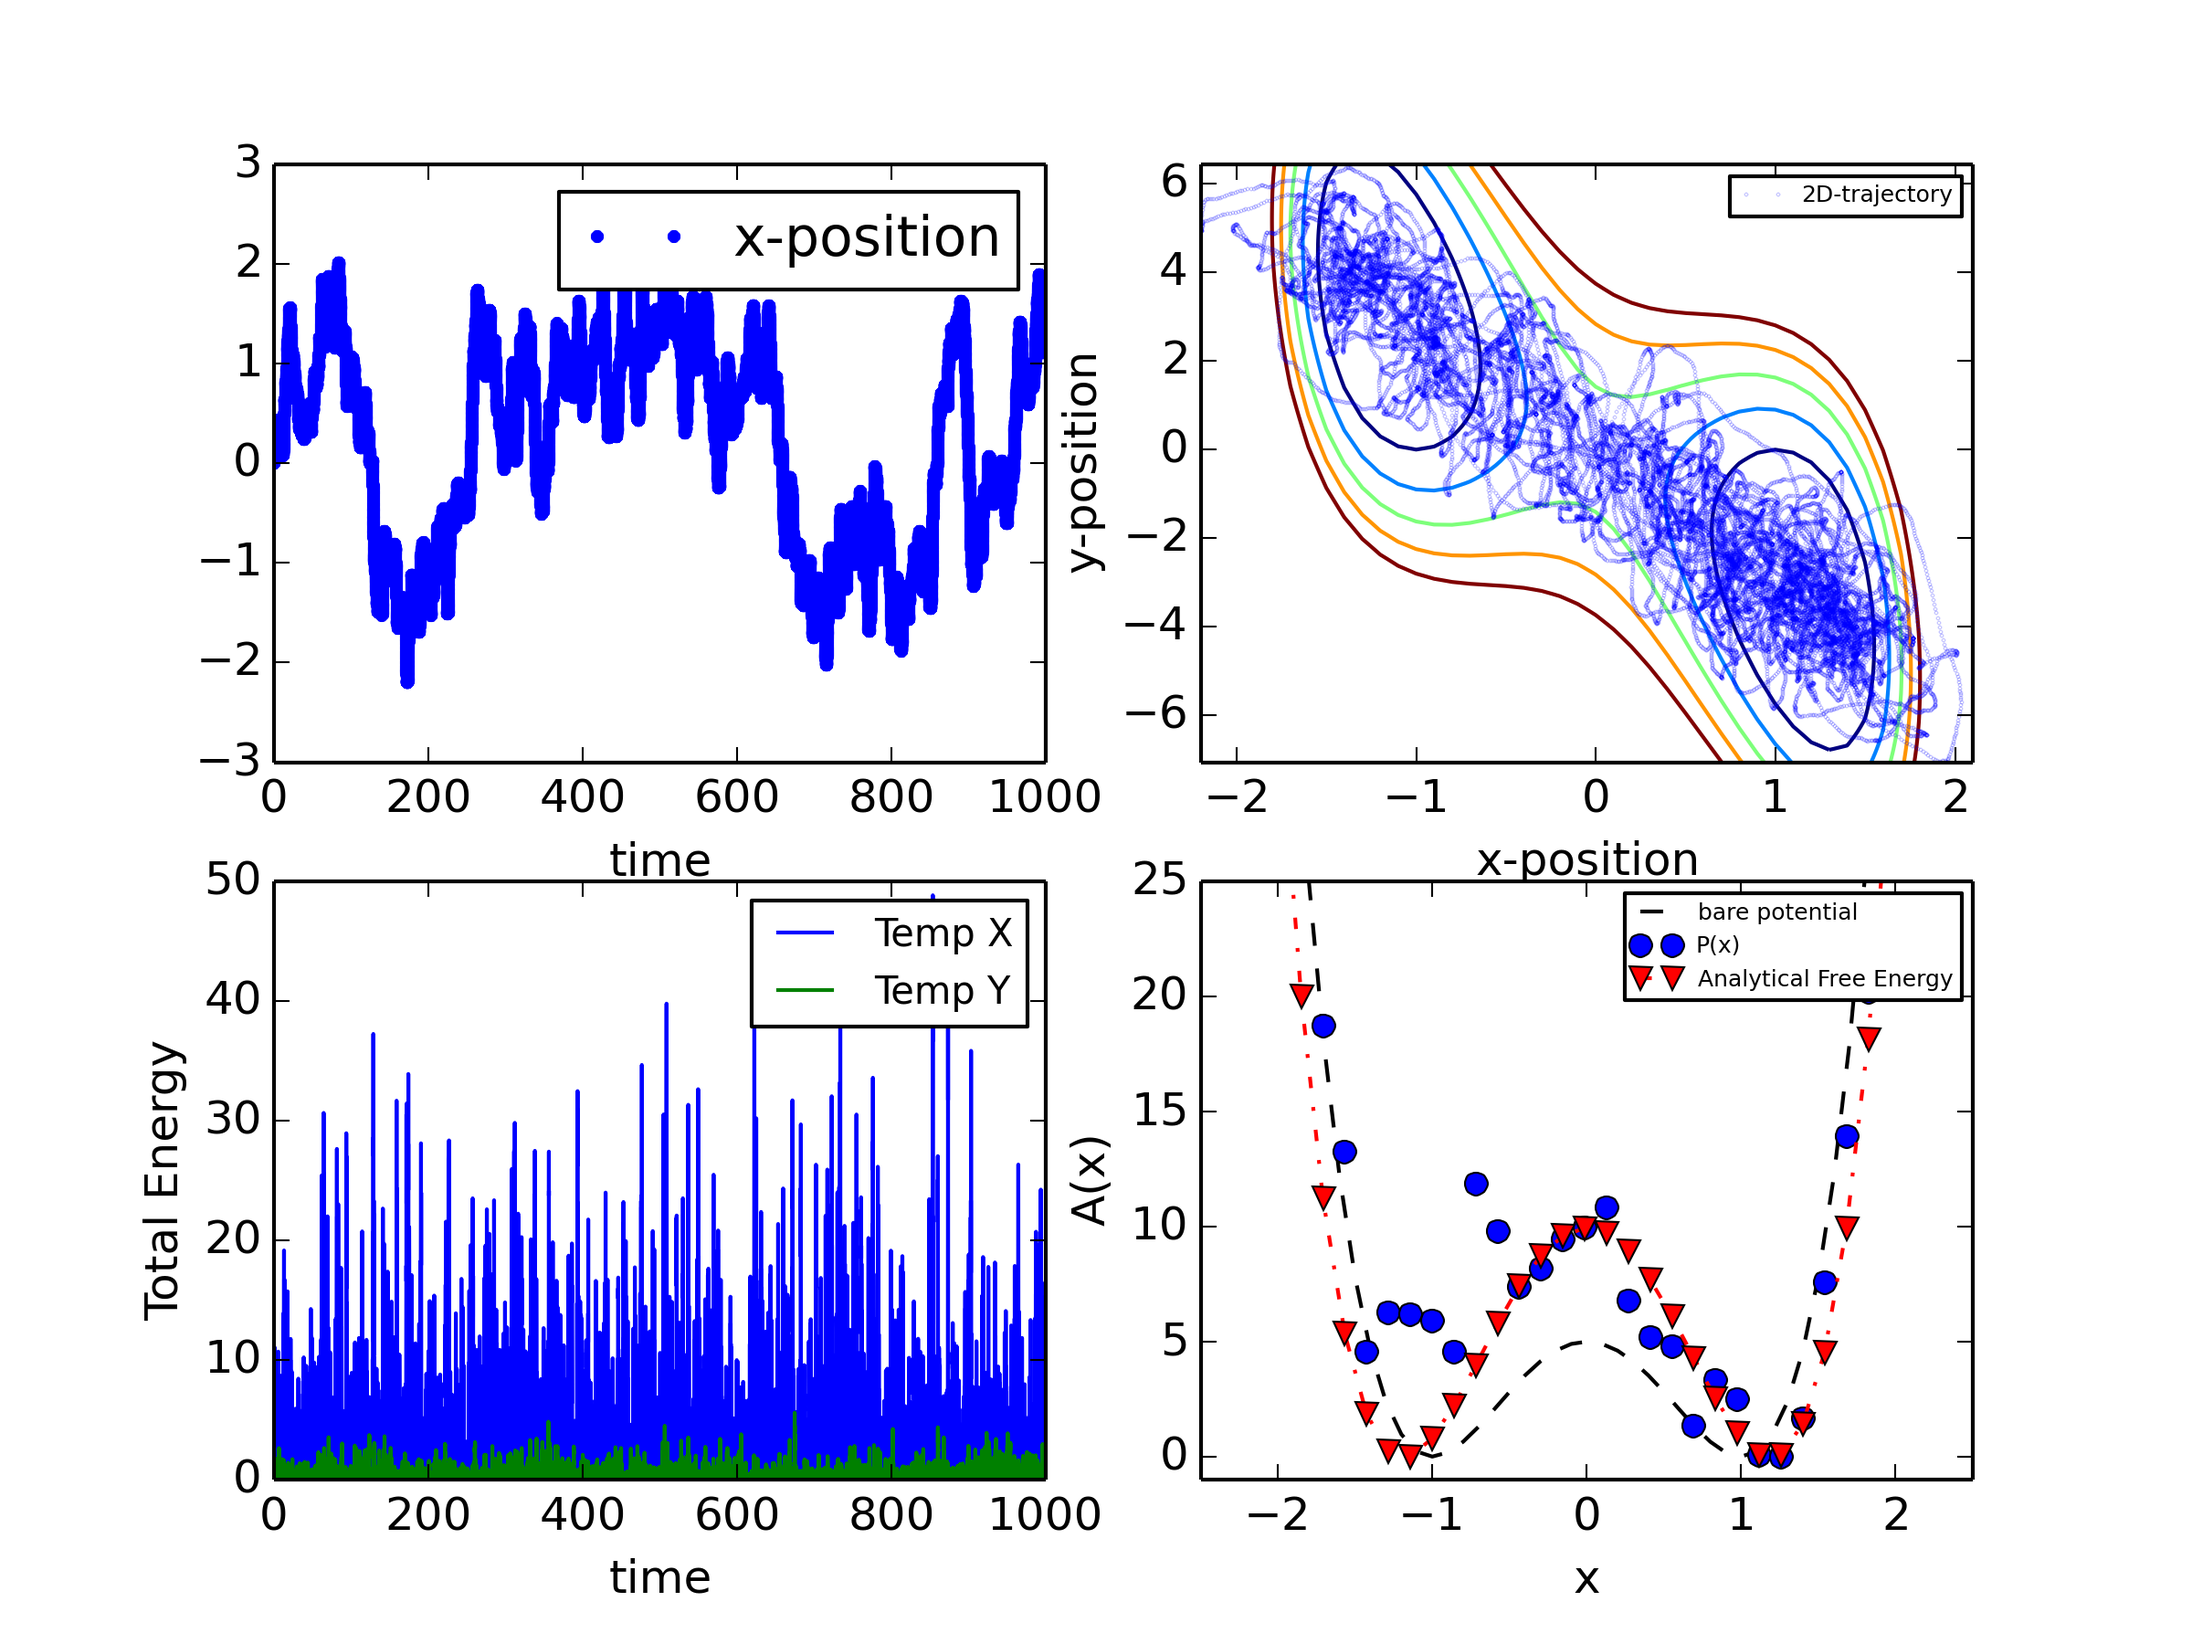
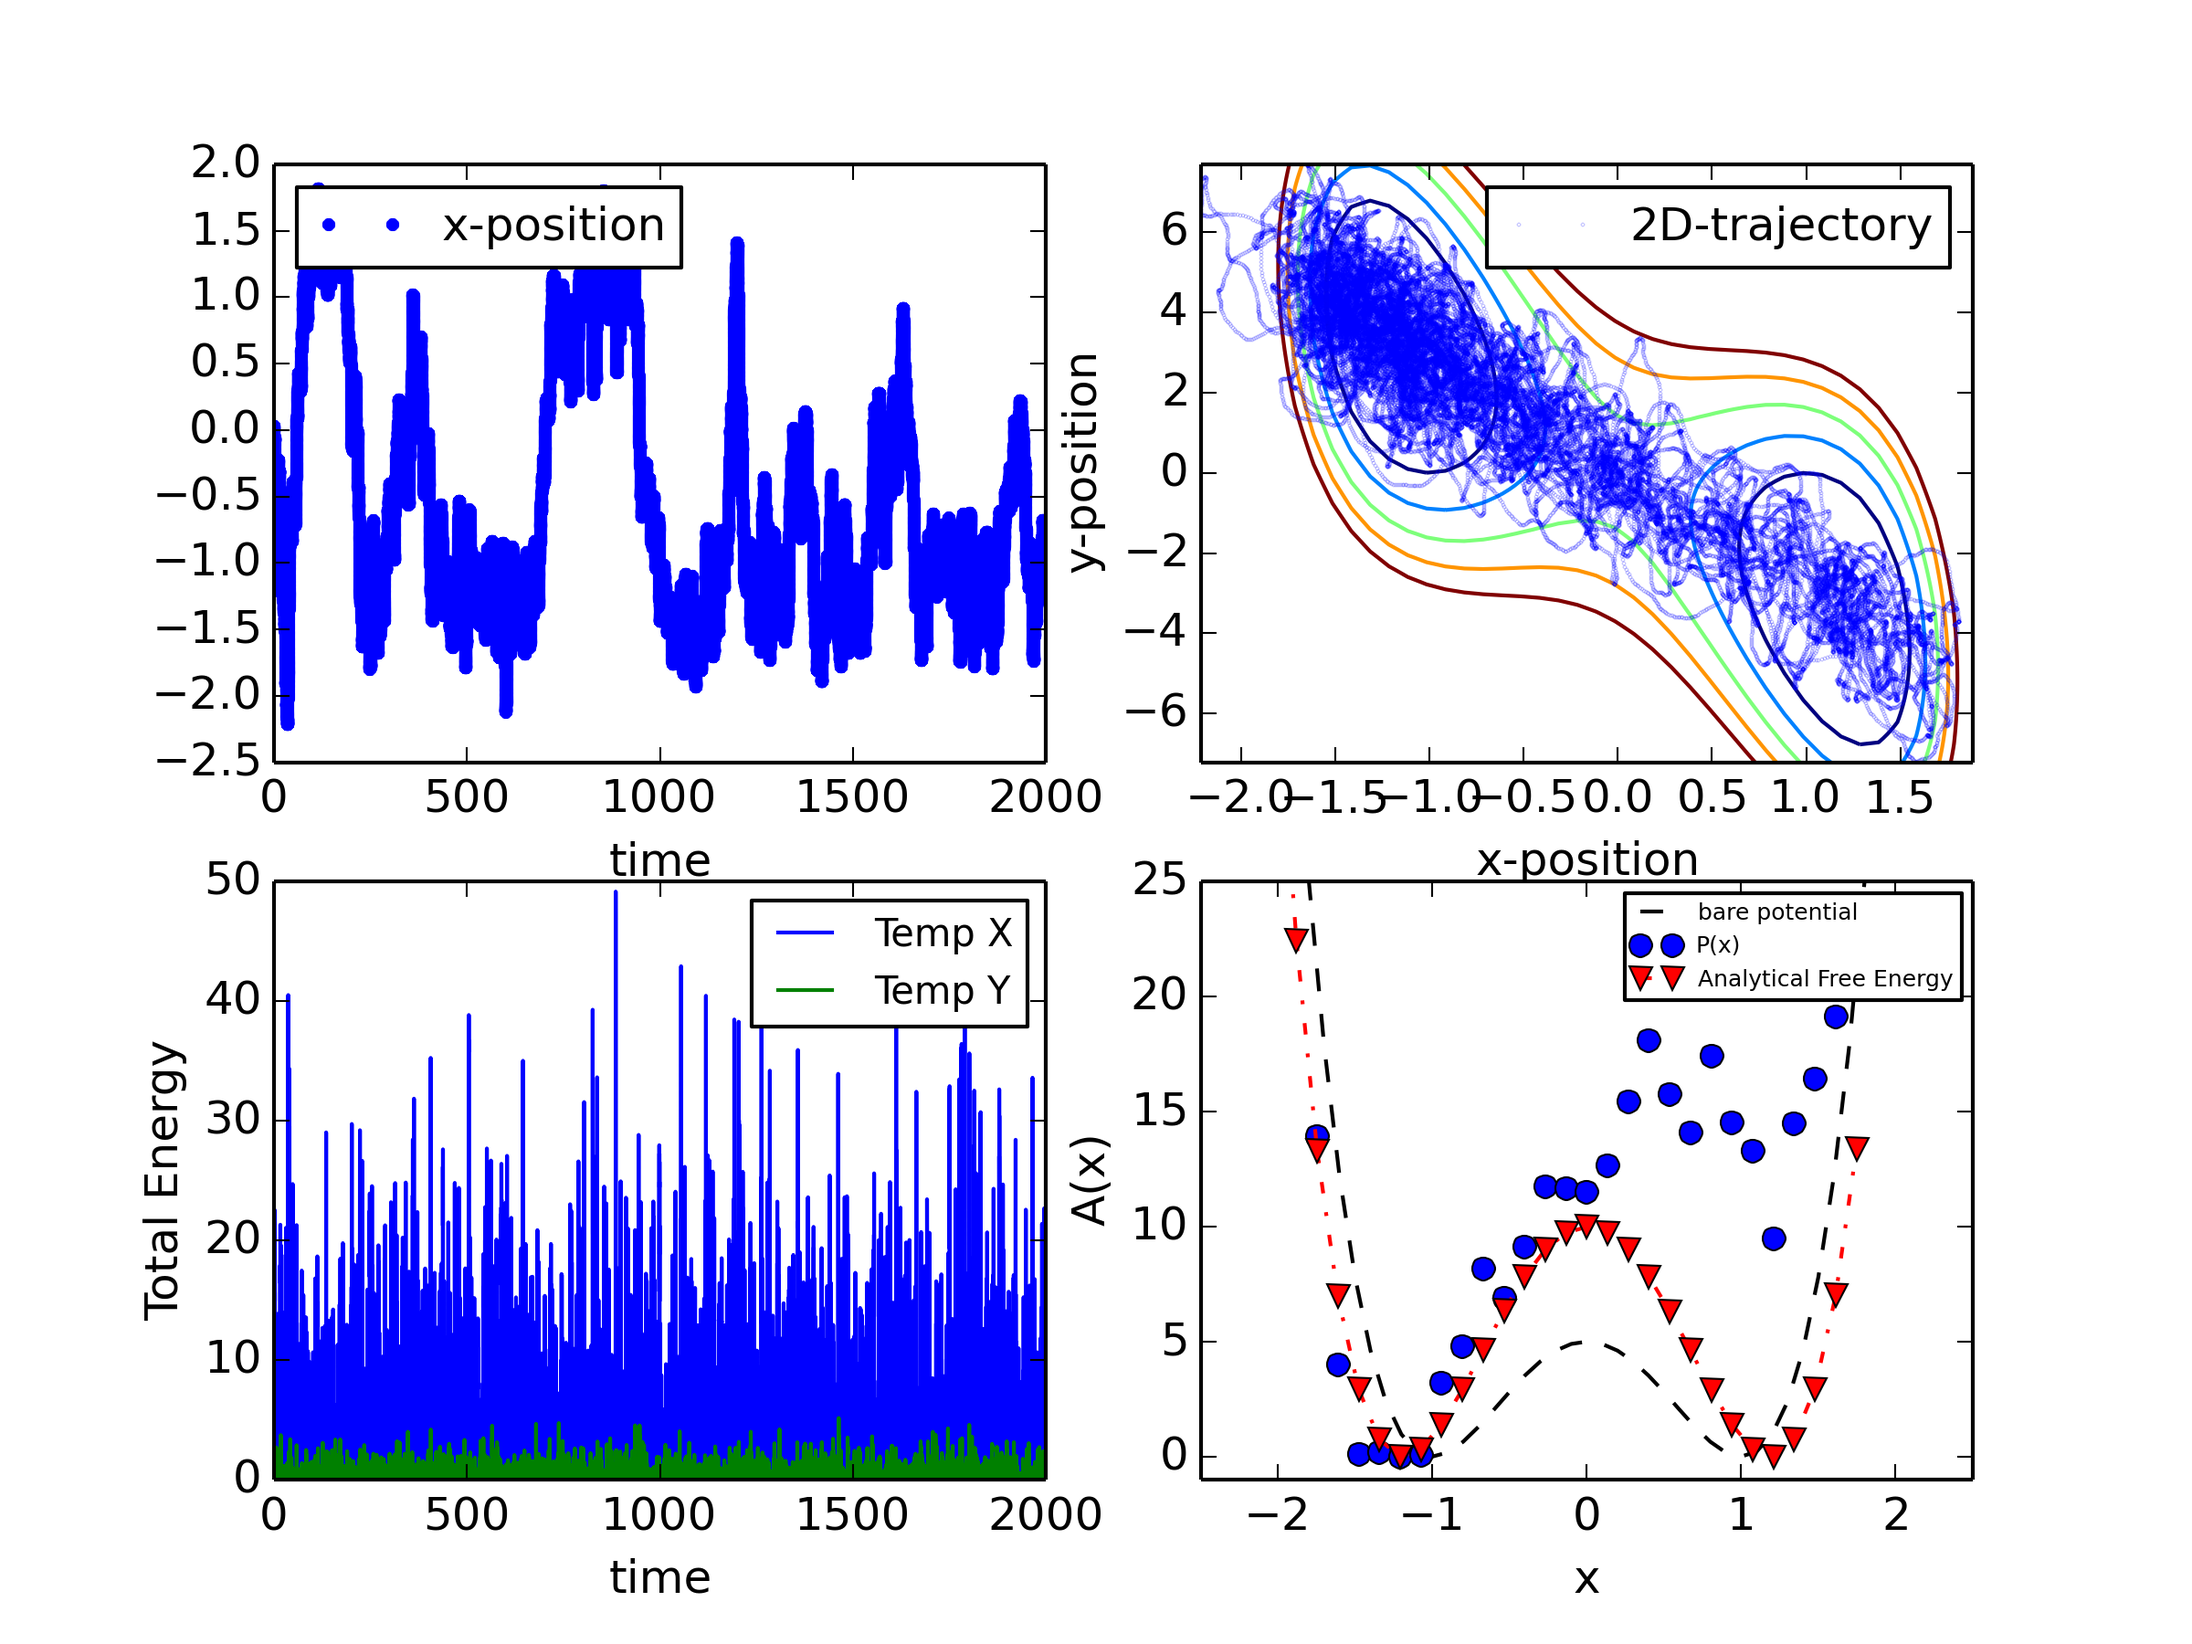
minor modifications to run parameters and plot

diff --git a/AFED_2D_double_well.py b/AFED_2D_double_well.py
@@ -307,13 +307,13 @@ my_d0=5.0
 my_a=1.0
 my_k=1.0
 my_lamb= 2.878   # if I set this to zero I will decouple x and y
-my_max_time =  1000 # 1000
+my_max_time =  2000 # 1000
 initial_position_x = 0.0
 initial_position_y = 0.0
 initial_velocity_x = 0.0
 initial_velocity_y = 0.0
 
-massx=300.0 # 300.0
+massx=500.0 # 300.0
 massy=1.0
 my_gammax=1.0
 my_gammay=1.0
@@ -344,12 +344,12 @@ times, x_positions, y_positions, x_velocities, y_velocities, total_energies,temp
 
 fig, axes = plt.subplots(2, 2, figsize=(8,6))
 
-axes[0, 0].plot(times,x_positions,marker='.',label='x-position',linestyle='')
+axes[0, 0].plot(times,x_positions,marker='.',label='x-position',linestyle='',markersize=6)
 # axes[0, 0].plot(times,y_positions,marker='.',label='y-position',linestyle='')
 # axes[0, 0].plot(times,x_velocities,marker='',label='x-velocity',linestyle='-')
 # axes[0, 0].plot(times,y_velocities,marker='',label='y-velocity',linestyle='-')
 axes[0, 0].set_xlabel('time')
-axes[0, 0].legend(loc=1)
+axes[0, 0].legend(loc=2,prop={'size':12})
 
 
 # draw contour for the energy 
@@ -381,7 +381,7 @@ axes[0, 1].contour(X, Y, energies, levels=levels)
 axes[0, 1].plot(x_positions,y_positions,marker='.',color='b',alpha=0.3,markerfacecolor='none',markeredgewidth=0.05,markersize=2,label='2D-trajectory',linestyle='')
 axes[0, 1].set_xlabel('x-position')
 axes[0, 1].set_ylabel('y-position')
-axes[0, 1].legend(loc=1,prop={'size':6})
+axes[0, 1].legend(loc=1,prop={'size':12})
 
 
 

diff --git a/README.md b/README.md
@@ -1,6 +1,13 @@
 # DAFED
 
+Author: Eric J. Chan
 
+Date(repo created):  2/3/2023
+Date(began coding): ~ 15/5/2018
+
+Description:
+
+ note- you need a python 2.7 environment to run these 
  Cute benchmark implementations of the driven adiabatic free
  energy dynamics (AFED) and just adiabatic free energy dynamics (AFED) 
  on 2D- double well potential using a Langevin thermostat.
